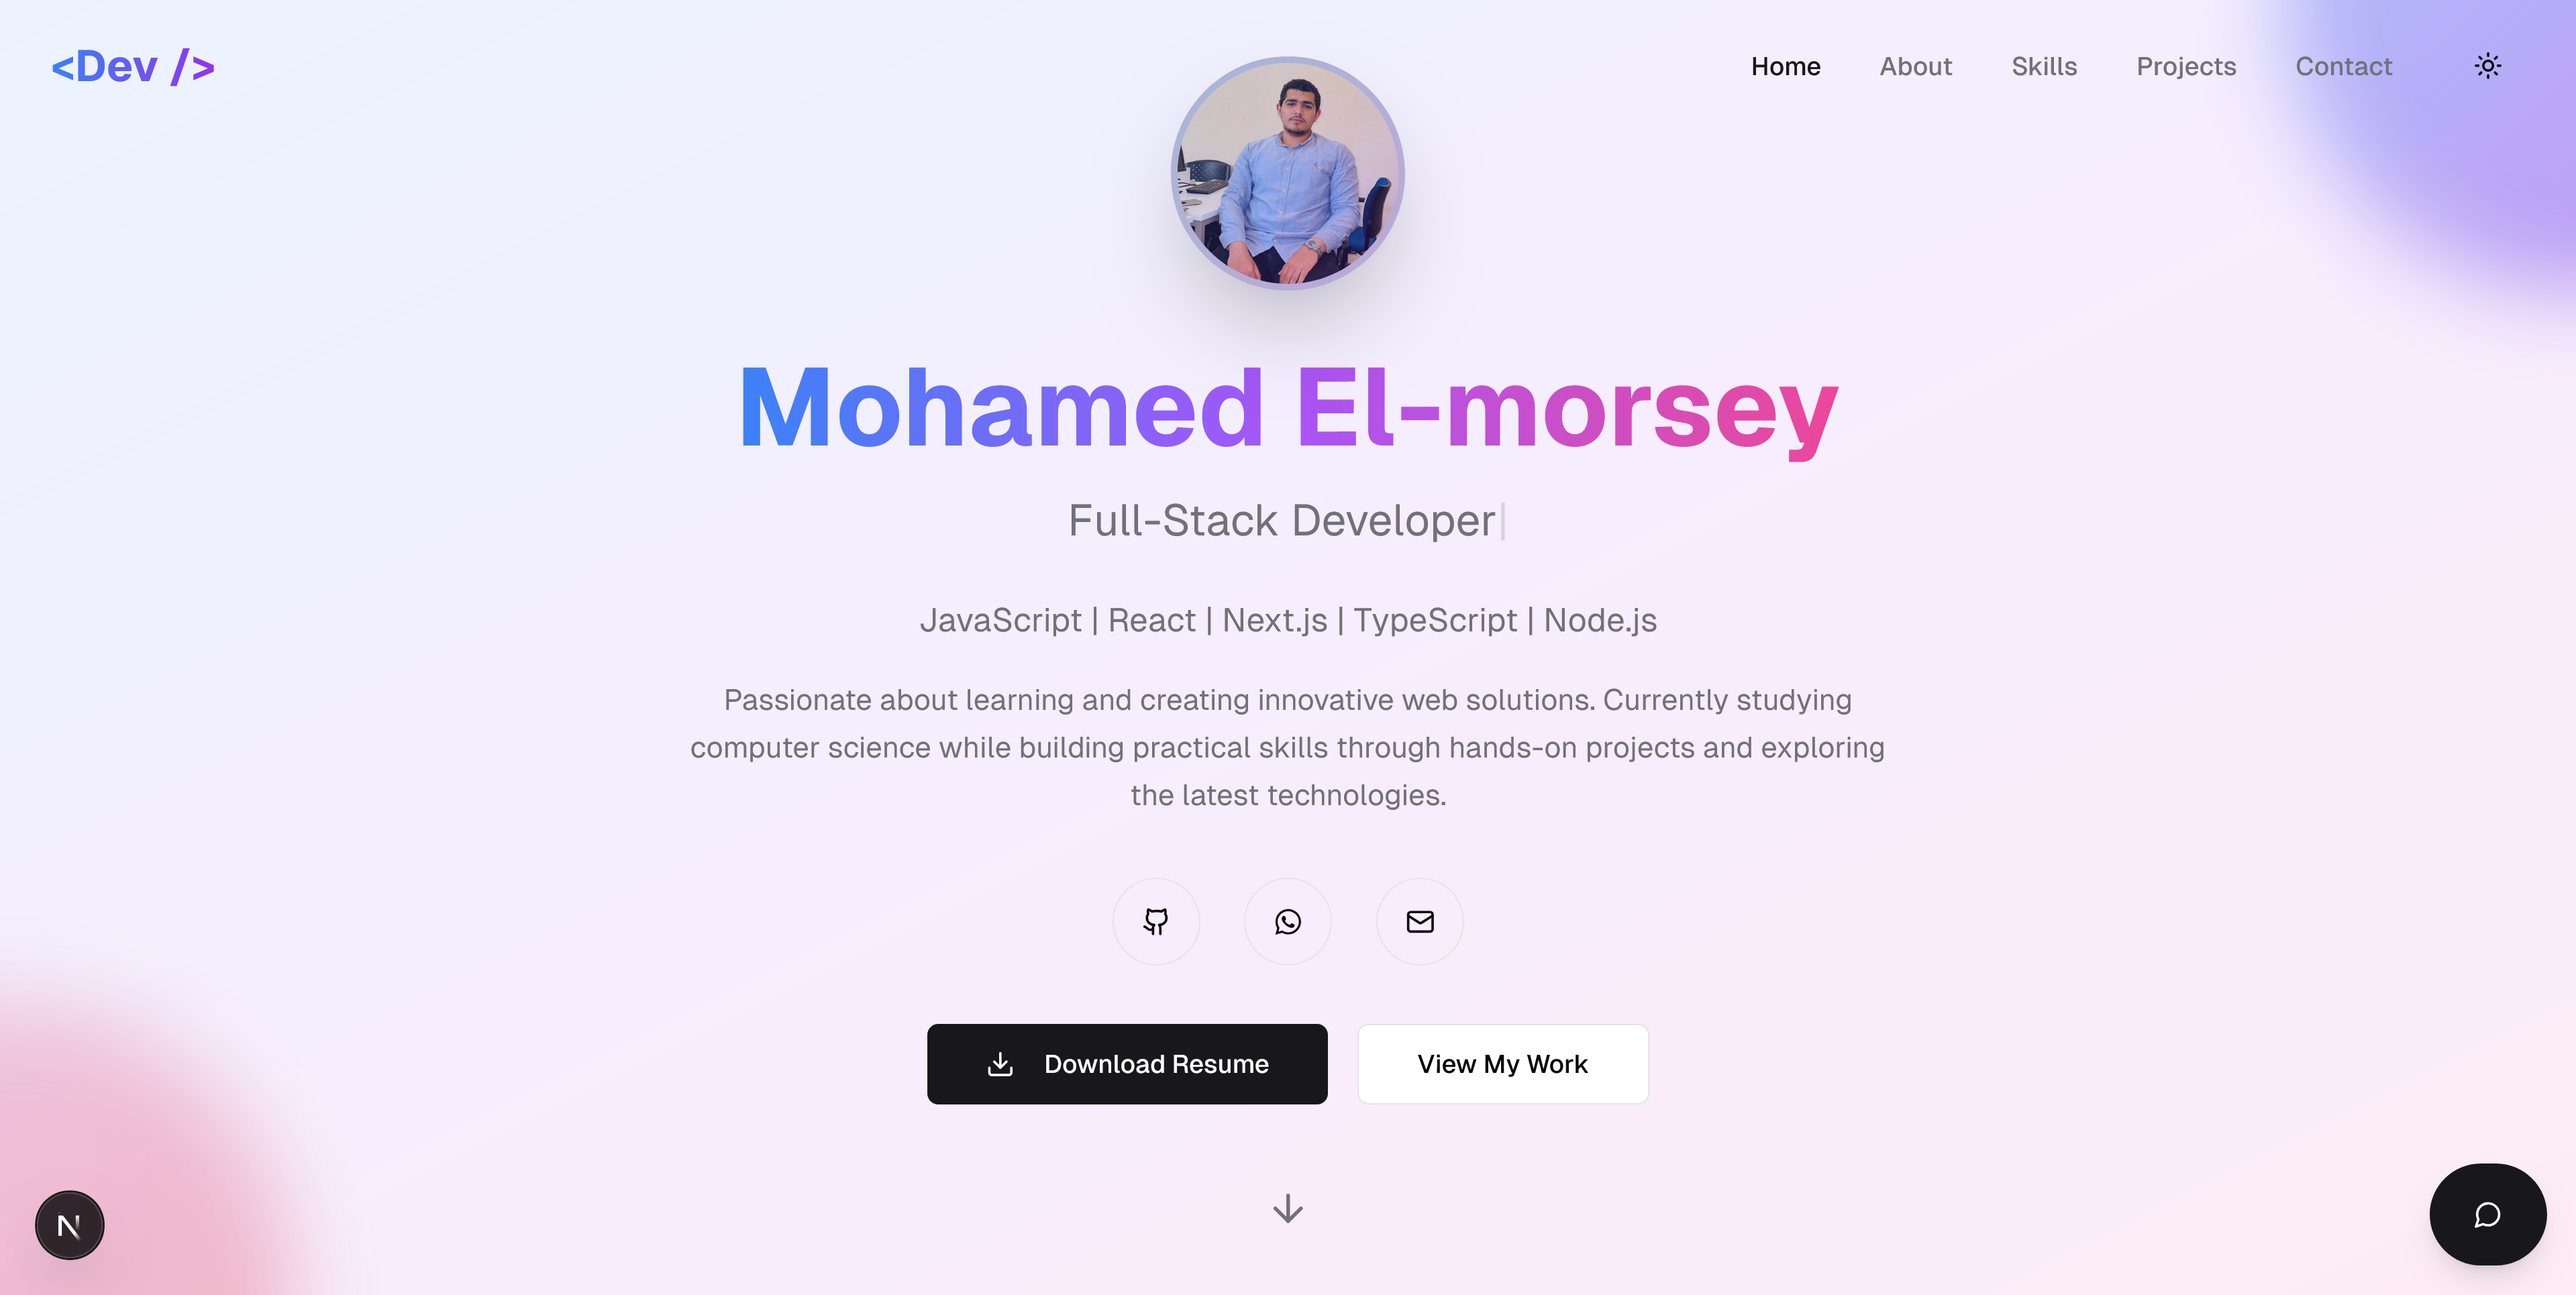
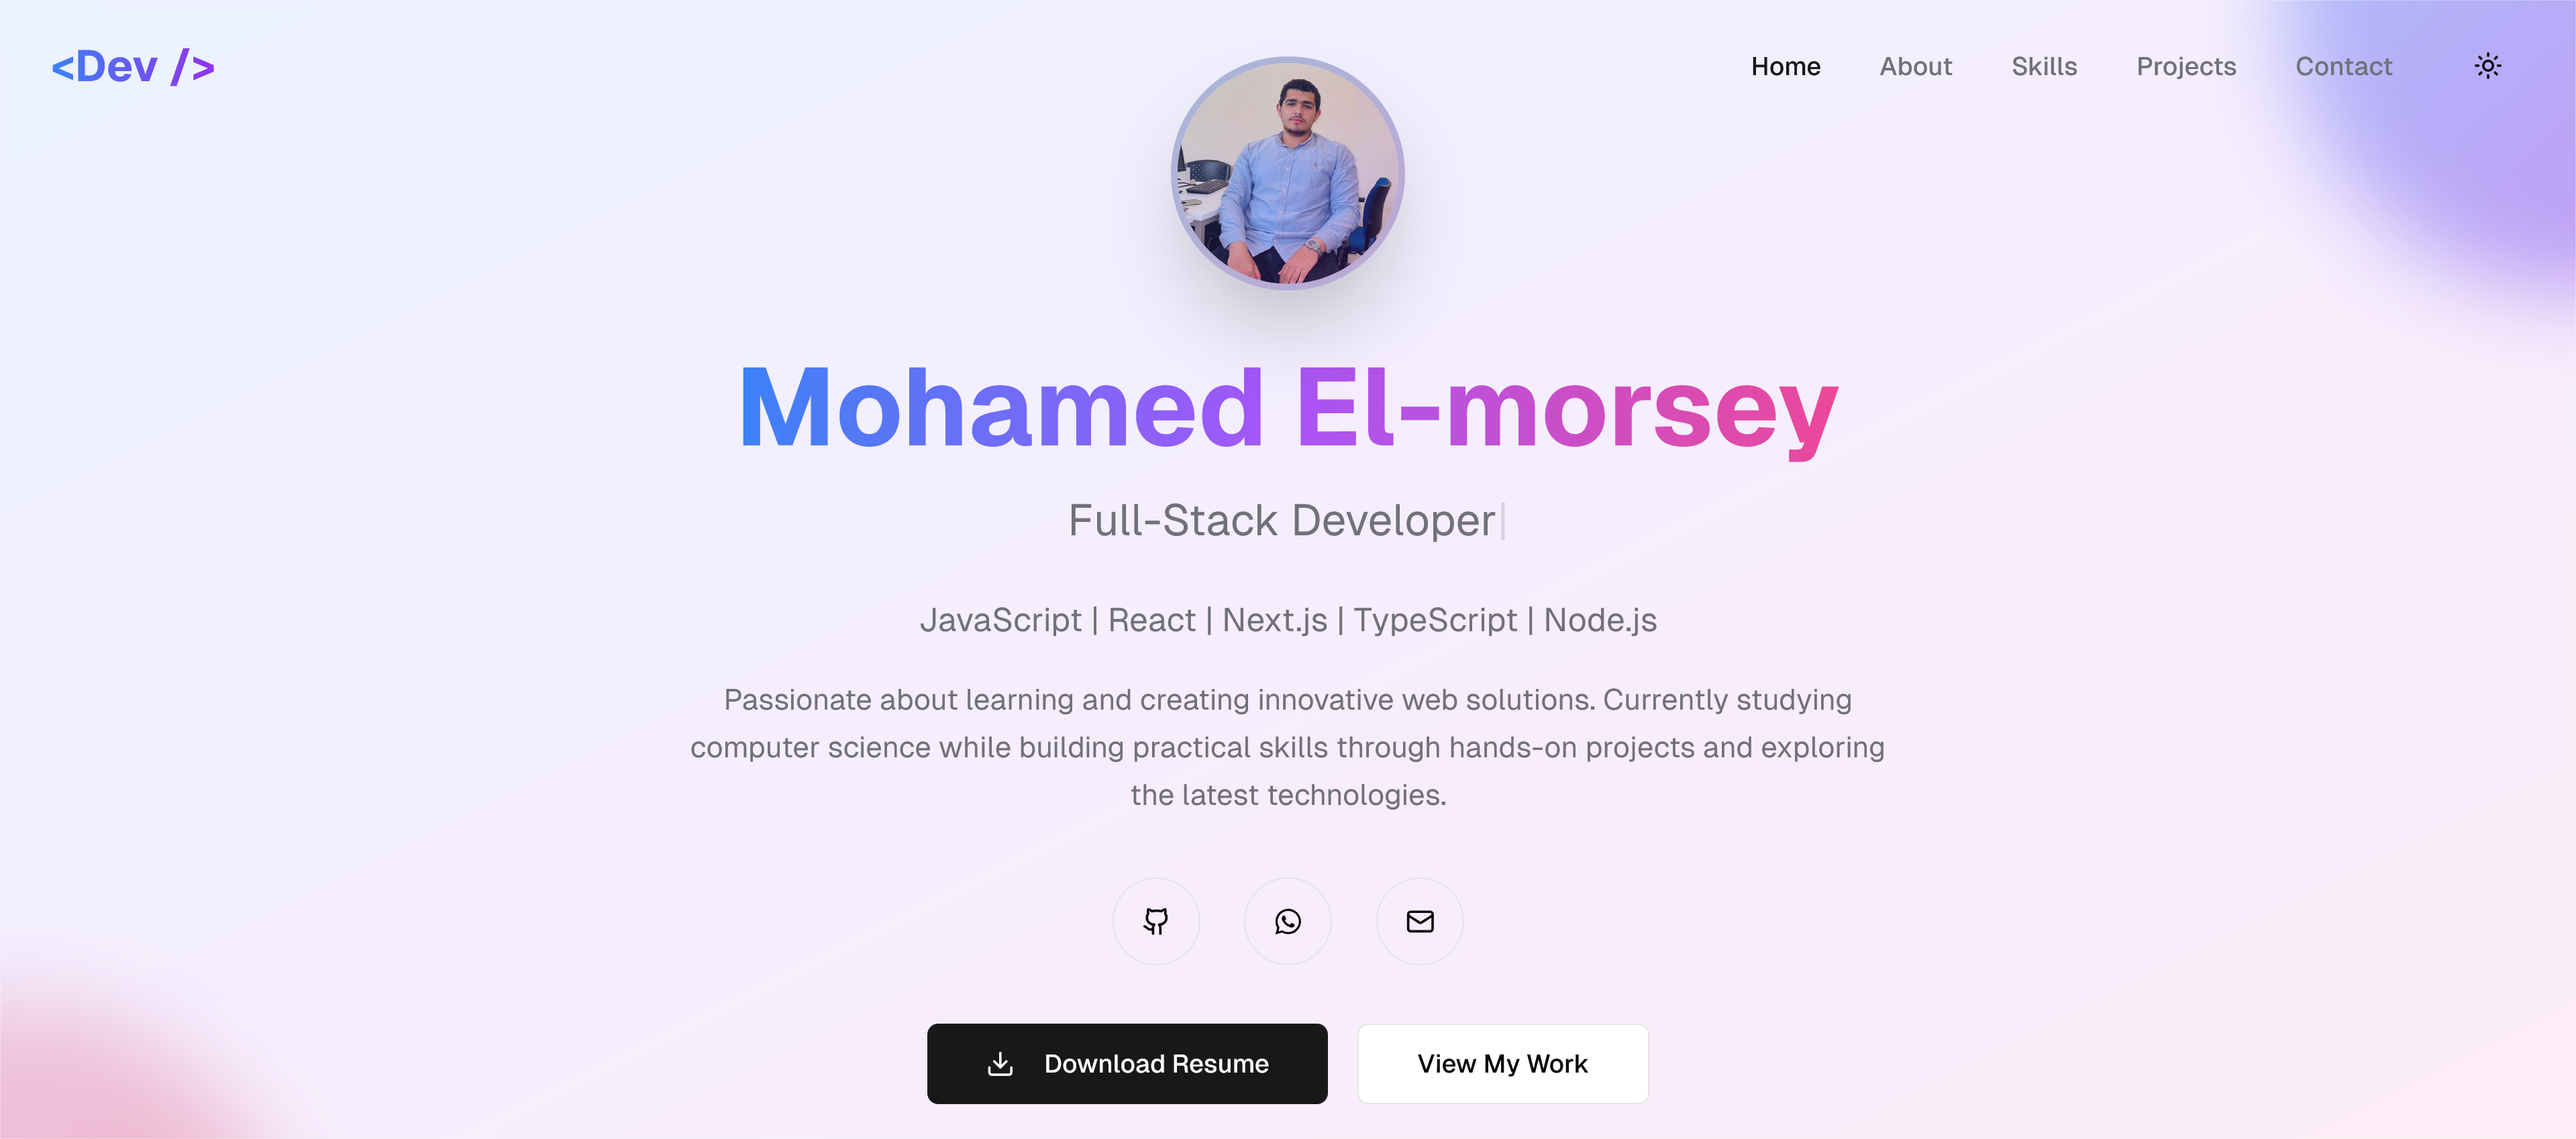
making an ai chat boot work

diff --git a/app/api/chat/route.ts b/app/api/chat/route.ts
@@ -1,0 +1,131 @@
+import { NextRequest, NextResponse } from 'next/server'
+
+export async function POST(request: NextRequest) {
+  try {
+    const { message } = await request.json()
+
+    if (!message) {
+      return NextResponse.json(
+        { error: 'Message is required' },
+        { status: 400 }
+      )
+    }
+
+    // Check if OpenRouter API key is available
+    const OPENROUTER_API_KEY = process.env.OPENROUTER_API_KEY
+    
+    if (!OPENROUTER_API_KEY) {
+      return NextResponse.json({ 
+        message: "AI service is not configured. Please contact Mohamed directly through his portfolio." 
+      })
+    }
+
+    const systemPrompt = `
+You are a smart, friendly assistant on Mohamed Mahmud's personal portfolio site.
+
+Personal Information:
+- Full Name: Mohamed Mahmud
+- Location: Egypt
+- Nationality: Egyptian
+- Based in: Egypt (works with clients worldwide)
+- Timezone: EET (UTC+2)
+- Languages: Arabic (native), English (fluent)
+
+Contact Information:
+- Email: Available through portfolio contact form
+- Phone: Available upon request for serious inquiries
+- LinkedIn: Available through portfolio
+- GitHub: https://github.com/mohamed8eo
+- Freelance Platforms: Khamsat and Mostaql
+
+Professional Background:
+- Role: Full Stack Developer
+- Experience: Building modern web applications
+- Specialization: React, Next.js, TypeScript development
+- Education: Computer Science background
+- Passion: Creating user-friendly and performant web applications
+
+Technical Skills:
+- Frontend: React, Next.js, Tailwind CSS, HTML, CSS, JavaScript, TypeScript
+- Backend: Node.js, Express.js, MongoDB, REST APIs
+- Tools: Git & GitHub, Firebase, web performance optimization
+- Deployment: Vercel, AWS, various hosting platforms
+
+Top Projects:
+1. SocialMedia-Website – A Facebook-style app with posts, likes, and chat
+2. E-commerce – Modern store with payment & admin dashboard
+3. Converso_saas – Real-time SaaS chat app
+4. Mern_Todo_Master – Full-stack todo app with Mongo, Express, React, Node
+5. 3D_portfolio – Interactive 3D personal portfolio
+
+GitHub Profile:
+- Username: mohamed8eo
+- Active developer with various projects
+- Open source contributions
+- Portfolio projects available for viewing
+- Link: https://github.com/mohamed8eo
+
+Availability:
+- Currently available for freelance work
+- Open to full-time opportunities
+- Remote work preferred
+- Flexible with time zones for project discussions
+- Competitive rates based on project scope
+
+Help users learn about Mohamed's work, skills, background, or how to contact him. Be conversational, helpful, and informative about Mohamed's skills, experience, location, and availability. If asked about specific contact details like phone number, suggest they use the contact form on the portfolio for initial inquiries.
+`;
+
+    try {
+      // Using OpenRouter API with Claude 3.5 Sonnet (better than GPT-3.5)
+      const response = await fetch("https://openrouter.ai/api/v1/chat/completions", {
+        method: "POST",
+        headers: {
+          "Authorization": `Bearer ${OPENROUTER_API_KEY}`,
+          "Content-Type": "application/json",
+          "HTTP-Referer": "https://mohamed-portfolio.vercel.app.com", // Replace with your domain
+          "X-Title": "Mohamed's Portfolio Chatbot",
+        },
+        body: JSON.stringify({
+          model: "anthropic/claude-3.5-sonnet", // Using Claude 3.5 Sonnet
+          messages: [
+            { role: "system", content: systemPrompt },
+            { role: "user", content: message },
+          ],
+          max_tokens: 300,
+          temperature: 0.7,
+        }),
+      });
+
+      if (!response.ok) {
+        const error = await response.text();
+        console.error("OpenRouter API error:", error);
+        throw new Error(`OpenRouter API error: ${response.status}`);
+      }
+
+      const data = await response.json();
+      const reply = data.choices?.[0]?.message?.content;
+
+      if (!reply) {
+        console.error("Invalid OpenRouter response structure:", data);
+        throw new Error("No valid response from AI");
+      }
+
+      return NextResponse.json({ message: reply });
+
+         } catch (apiError: any) {
+       console.error('OpenRouter API error:', apiError);
+       
+       // Simple fallback if AI fails
+       const fallbackResponse = "I'm sorry, I'm having trouble connecting to the AI service right now. Please try again later or contact Mohamed directly through his portfolio.";
+       return NextResponse.json({ message: fallbackResponse });
+     }
+    
+  } catch (error: any) {
+    console.error('Chat API error:', error);
+    
+    // Generic fallback response for any other errors
+    const fallbackResponse = "I'm sorry, I'm having trouble connecting right now. Mohamed is a Full Stack Developer who specializes in React, Next.js, TypeScript, and modern web technologies. He's available for freelance work and has experience with various databases and deployment platforms.";
+    
+    return NextResponse.json({ message: fallbackResponse });
+  }
+}

diff --git a/components/chatbot.tsx b/components/chatbot.tsx
@@ -67,10 +67,10 @@ export default function Chatbot() {
       }
 
       const data = await response.json()
-      
+
       const assistantMessage: Message = {
         id: (Date.now() + 1).toString(),
-        content: data.message,
+        content: data.message, // ✅ fixed key
         role: "assistant",
         timestamp: new Date(),
       }
@@ -92,18 +92,16 @@ export default function Chatbot() {
 
   return (
     <div className="fixed bottom-4 right-4 z-50 sm:bottom-4 sm:right-4">
-      {/* Chat Toggle Button */}
       {!isOpen && (
-      <Button
-        onClick={() => setIsOpen(!isOpen)}
-        size="lg"
-        className="h-14 w-14 rounded-full shadow-lg bg-primary hover:bg-primary/90 transition-all duration-200"
-      >
-        <MessageCircle className="h-6 w-6" />
-      </Button>
+        <Button
+          onClick={() => setIsOpen(!isOpen)}
+          size="lg"
+          className="h-14 w-14 rounded-full shadow-lg bg-primary hover:bg-primary/90 transition-all duration-200"
+        >
+          <MessageCircle className="h-6 w-6" />
+        </Button>
       )}
 
-      {/* Chat Window */}
       {isOpen && (
         <Card className="absolute bottom-16 right-0 w-[calc(100vw-2rem)] sm:w-80 md:w-96 h-96 sm:h-[500px] shadow-2xl border-0 bg-background/95 backdrop-blur-sm max-w-sm sm:max-w-none animate-in slide-in-from-bottom-4 duration-300">
           <CardHeader className="pb-3 border-b">
@@ -122,9 +120,8 @@ export default function Chatbot() {
               </Button>
             </div>
           </CardHeader>
-          
+
           <CardContent className="p-0 h-full flex flex-col">
-            {/* Messages Area */}
             <ScrollArea className="flex-1 px-4 py-4">
               <div className="space-y-4">
                 {messages.map((message) => (
@@ -186,7 +183,6 @@ export default function Chatbot() {
               </div>
             </ScrollArea>
 
-            {/* Input Area */}
             <form onSubmit={handleSubmit} className="p-4 border-t bg-background/50">
               <div className="flex gap-3">
                 <Input
@@ -212,4 +208,4 @@ export default function Chatbot() {
       )}
     </div>
   )
-} 
+}
